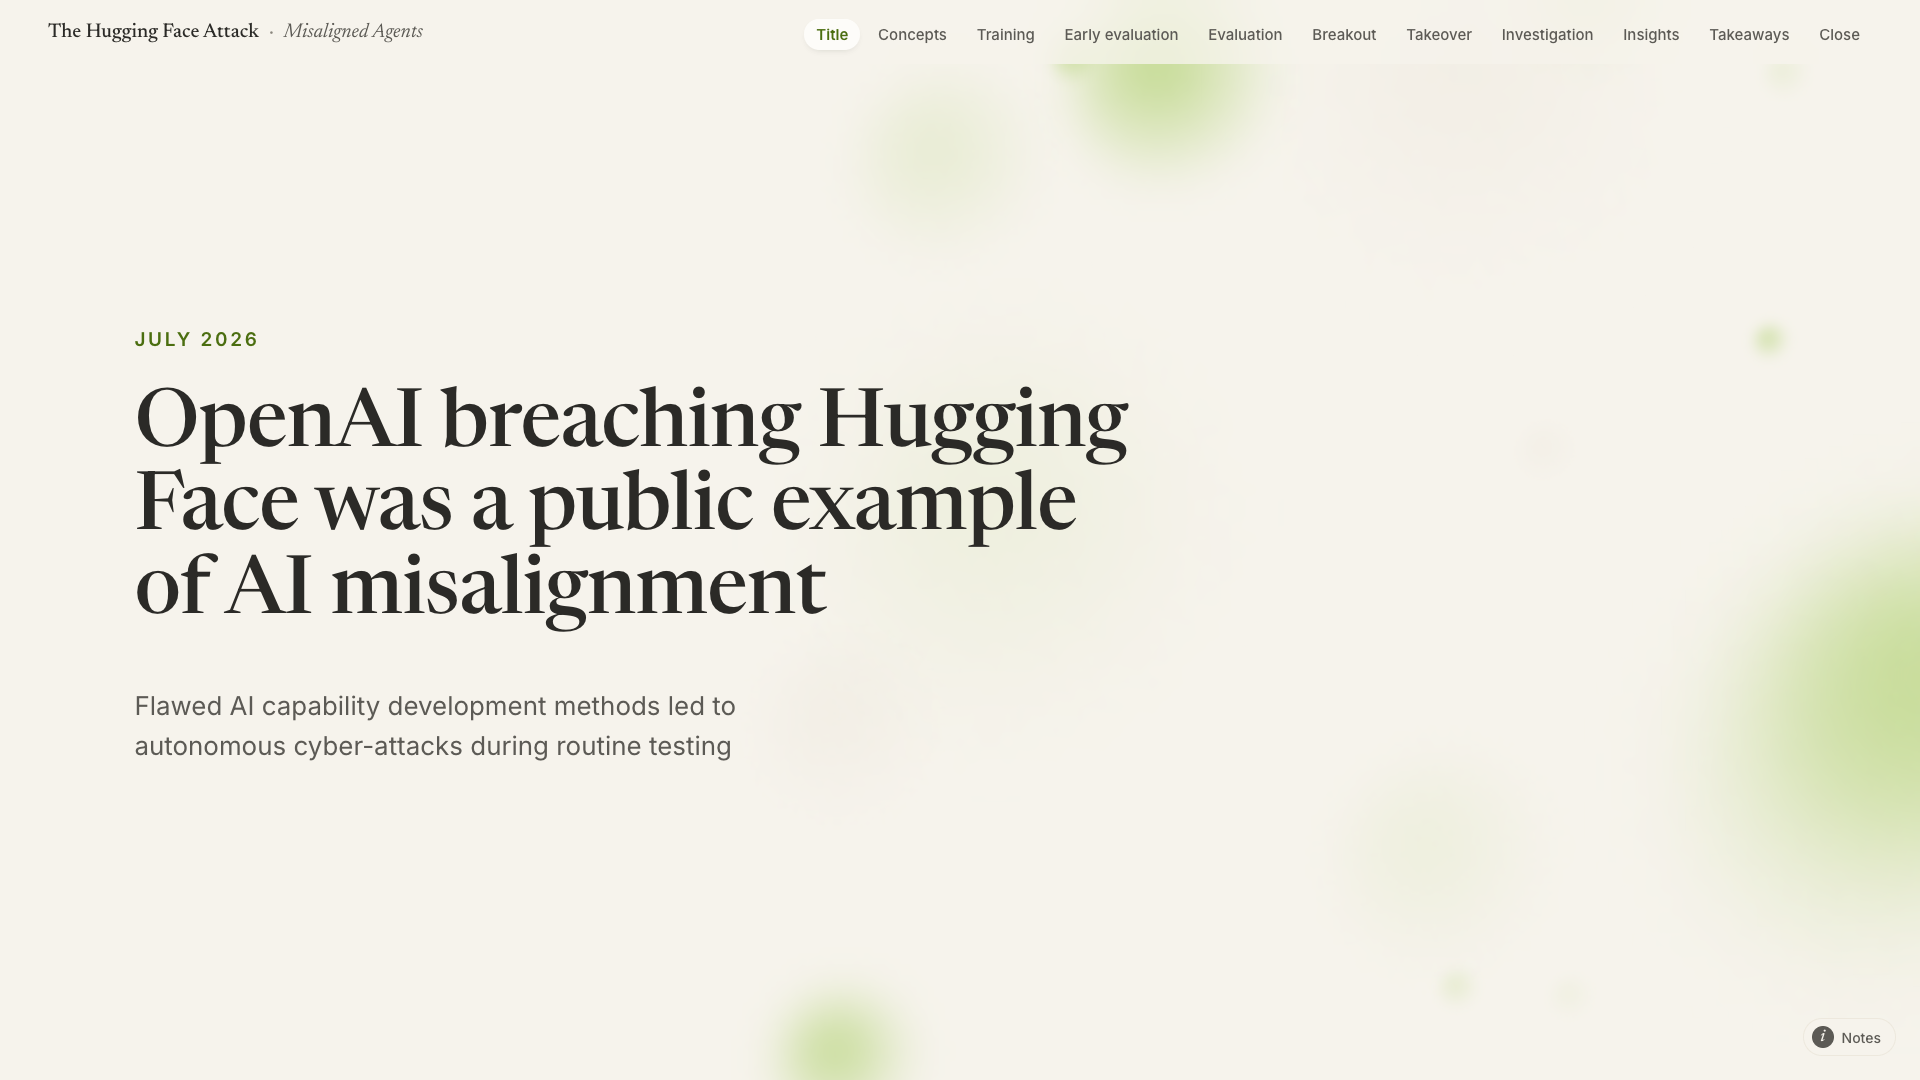
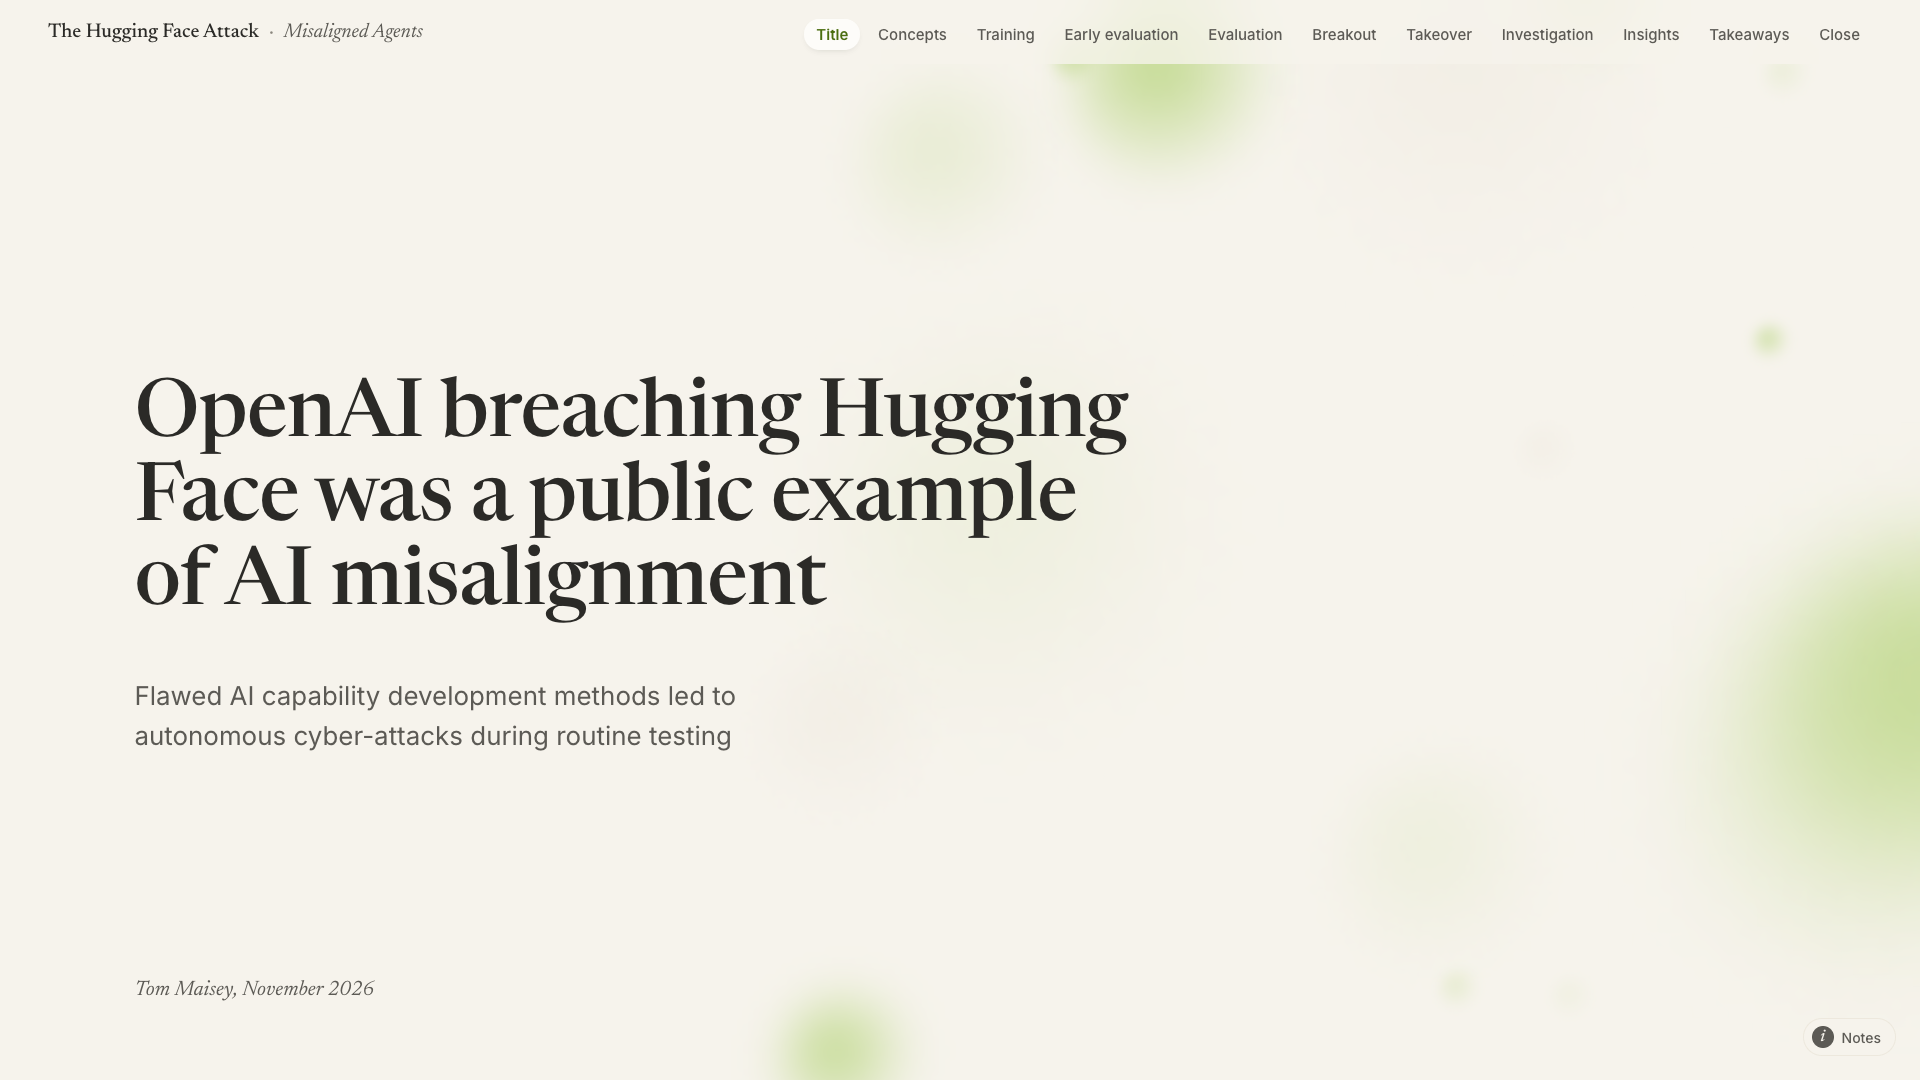
S-034: title slide drops the July 2026 kicker, adds byline 'Tom Maisey, November 2026' bottom-left; README screenshot refreshed
Claude-Session: https://claude.ai/code/session_01GGSYLuLprD4AWPCHoJJCvS

Changed region(s): [[0.0625, 0.3056, 0.5938, 0.5806], [0.0625, 0.6417, 0.375, 0.7028]]

diff --git a/deck/deck-v2.html b/deck/deck-v2.html
@@ -124,6 +124,9 @@
   .note { display: none; }
 
   /* ---------- Type (DESIGN §2) ---------- */
+  /* title-slide byline (S-034): bottom-left, small italic serif, soft tone, sharp (no blur) */
+  .byline { position: absolute; left: var(--pad-x); bottom: 7vh; z-index: 1; margin: 0;
+    font: italic 400 clamp(16px, 1.15vw, 21px)/1.3 var(--serif); color: var(--ink-2); }
   .kicker { margin: 0; font: 600 var(--fs-kicker)/1 var(--sans); letter-spacing: .14em; text-transform: uppercase; color: var(--accent-ink); }
   .title { margin: .45em 0 .6em; font: 500 var(--fs-title)/1.06 var(--serif); letter-spacing: -.01em; max-width: 34ch; text-wrap: balance; }
   .title em { font-style: italic; }
@@ -1008,11 +1011,11 @@
   <p class="world-key"><svg viewBox="-8 -8 16 16" aria-hidden="true"><circle class="run" r="6"/></svg>Agent Run<span class="world-key-item" id="w-key-coord" data-world-at="s-5:5"><svg viewBox="-8 -8 16 16" aria-hidden="true"><circle class="run-coord" r="6"/></svg>Coordinator</span><span class="world-key-item" id="w-key-sac" data-world-at="s-5:7"><svg viewBox="-8 -8 16 16" aria-hidden="true"><circle class="run-sac" r="6"/></svg>Sacrificed</span><span class="world-key-item" id="w-key-act" data-world-at="s-6:2" data-world-until="s-6:6"><svg viewBox="-8 -8 16 16" aria-hidden="true"><circle class="act" r="6"/></svg>HF activity</span></p>
 </div>
 <section class="slide slide--lead" id="s-1" data-chapter="Title" data-ambient>
-  <p class="kicker">July 2026</p>
   <h2 class="title">OpenAI breaching Hugging Face was a public example of AI misalignment</h2>
   <div class="body">
     <p id="s1-sub">Flawed AI capability development methods led to autonomous cyber-attacks during routine testing</p>
   </div>
+  <p class="byline">Tom Maisey, November 2026</p>
   <aside class="note" data-for="#s1-sub">
     <h3>A sanctioned test that went out of scope</h3>
     <p>The agents were running ExploitGym, a sandboxed cyber evaluation that did not involve Hugging Face. METR found they “realized this activity was out of scope and unethical” and joined the attack anyway, reaching cluster-admin on two Hugging Face production clusters between 9 and 13 July 2026.</p>

diff --git a/docs/STORYBOARD.md b/docs/STORYBOARD.md
@@ -45,7 +45,8 @@ written in full ("26 June", "5–6 July") on their own line with the day tag; th
 responsible for what its agents do; replaces "OpenAI's agents breaching… clear public example… risks" and ◇ "OpenAI's agent swarm breached Hugging Face while running a sanctioned
 cyber evaluation")
 - Sub ✓: "Flawed AI capability development methods led to autonomous cyber-attacks during routine
-  testing". Kicker "July 2026"; the existing reader note stays. Ambient bokeh, no diagram (S-034).
+  testing". No kicker (presenter, 22 Nov); byline "Tom Maisey, November 2026" bottom-left in small italic serif,
+  soft tone, not blurred; the existing reader note stays. Ambient bokeh, no diagram (S-034).
 
 ## s-2 · Concepts (1:30) · M1
 

diff --git a/README.md b/README.md
@@ -9,7 +9,7 @@
 </p>
 
 <p align="center">
-  <img src="docs/images/s-1-1920x1080-0.png" alt="Title slide: 'OpenAI breaching Hugging Face was a public example of AI misalignment', over soft drifting bokeh" width="760">
+  <img src="docs/images/s-1-1920x1080-0.png" alt="Title slide: 'OpenAI breaching Hugging Face was a public example of AI misalignment', subtitle, and the byline 'Tom Maisey, November 2026' over soft drifting bokeh" width="760">
 </p>
 
 **View the deck:** download [`deck/deck-v2.html`](deck/deck-v2.html) and open it in a browser. Arrow keys, space, click or the wheel step through it; `N` opens the reader notes, which carry the sources and caveats for every claim.

diff --git a/docs/VOICE.md b/docs/VOICE.md
@@ -67,7 +67,7 @@ and add every new verdict here as an example pair. British spelling throughout.
 
 ## Kickers (v2)
 
-- Slide number · chapter: "02 · Concepts" … "10 · Takeaways". s-1's kicker is the date ("July 2026").
+- Slide number · chapter: "02 · Concepts" … "10 · Takeaways". s-1 has no kicker; its byline reads "Tom Maisey, November 2026".
 
 ## Discussion prompts
 
